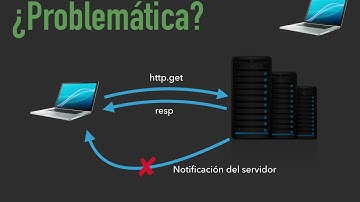
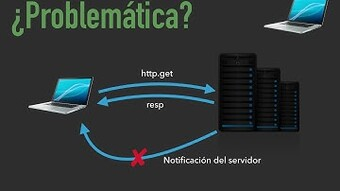
Made the videos responsive

diff --git a/assets/css/style.css b/assets/css/style.css
@@ -500,12 +500,12 @@ h6 {
   color: #2487ce;
 }
 
-#hero .continue-btn { 
+#hero .continue-btn {
   margin-left: 16%;
   margin-top: 8%;
 }
 
-#hero .continue-btn i { 
+#hero .continue-btn i {
   font-size: 1.3rem;
 }
 
@@ -630,11 +630,11 @@ section {
 /*--------------------------------------------------------------
 # Artcle
 --------------------------------------------------------------*/
-#main .article{
+#main .article {
   margin-top: 2rem !important;
 }
 
-.mb-5{
+.mb-5 {
   margin-top: -5rem;
   text-align: justify;
 }
@@ -643,27 +643,31 @@ section {
 # About Video
 --------------------------------------------------------------*/
 
-.about-video{
+.about-video {
   margin-top: -14rem;
 }
 
 .about-video .content {
   font-size: 15px;
 }
+
 .about-video .content h3 {
   font-weight: 700;
   font-size: 24px;
   color: #124265;
 }
+
 .about-video .content ul {
   list-style: none;
   padding: 0;
 }
+
 .about-video .content ul li {
   padding-bottom: 10px;
   padding-left: 28px;
   position: relative;
 }
+
 .about-video .content ul i {
   font-size: 24px;
   color: #2487ce;
@@ -671,12 +675,39 @@ section {
   left: 0;
   top: -2px;
 }
+
 .about-video .content p:last-child {
   margin-bottom: 0;
 }
 
-.about-video .container .row video{
-  margin-top: -2rem;
+.about-video .content p{
+  text-align: justify;
+}
+.about-video .container .row video {
+  width: 100%;
+  height: auto;
+}
+
+@media (max-width: 768px) {
+  .about-video .container .row video {
+    margin-top: 4rem;
+
+    /* Setting width & height to auto prevents the browser from stretching or squishing the video */
+    width: 100%;
+    height: 100%;
+
+    /* Center the video */
+    top: 50%;
+    left: 50%;
+  }
+
+  .about-video .content h3{
+    text-align: center;
+  }
+
+  .about-video .content p{
+    text-align: justify;
+  }
 }
 
 /*--------------------------------------------------------------
@@ -693,7 +724,7 @@ section {
 }
 
 .logos .row div {
-  margin-left: 3em ;
+  margin-left: 3em;
   margin-right: 3em;
 }
 
@@ -897,7 +928,8 @@ section {
   transition: 0.3s;
 }
 
-#footer .social-links #github-footer, #git-footer {
+#footer .social-links #github-footer,
+#git-footer {
   background: #000;
 }
 

diff --git a/InternetDeLasCosas.html b/InternetDeLasCosas.html
@@ -151,7 +151,7 @@
                 <div class="row">
 
                     <div class="col-lg-6 video-box align-self-baseline" data-aos="fade-right" data-aos-delay="100">
-                        <video width="620" height="420" controls poster="assets/img/videoposter/poster-2.jpg">
+                        <video controls poster="assets/img/videoposter/poster-2.jpg">
                             <source src="assets/video/internetcosas.mp4" type="video/mp4">
                         </video>
                     </div>

diff --git a/ProgramaciónDeAppsConSockets.html b/ProgramaciónDeAppsConSockets.html
@@ -153,7 +153,7 @@
                 <div class="row">
 
                     <div class="col-lg-6 video-box align-self-baseline" data-aos="fade-right" data-aos-delay="100">
-                        <video width="620" height="420" controls poster="assets/img/videoposter/poster-1.jpg">
+                        <video controls poster="assets/img/videoposter/poster-1.jpg">
                             <source src="assets/video/sockets.mp4" type="video/mp4">
                         </video>
                     </div>
